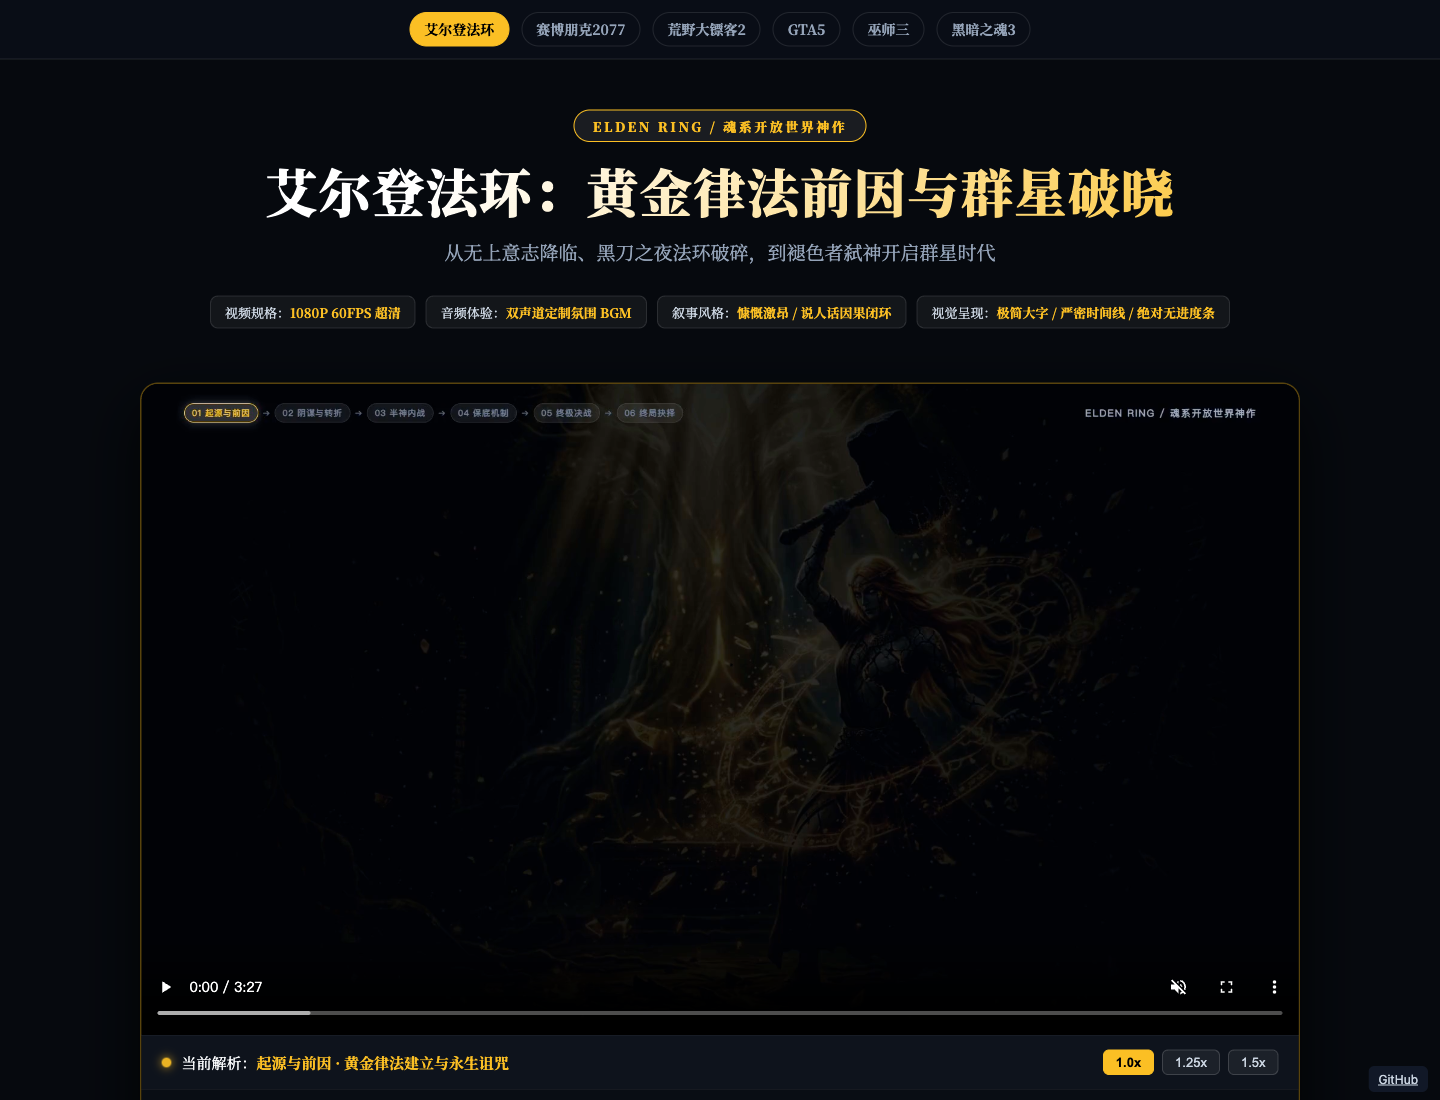
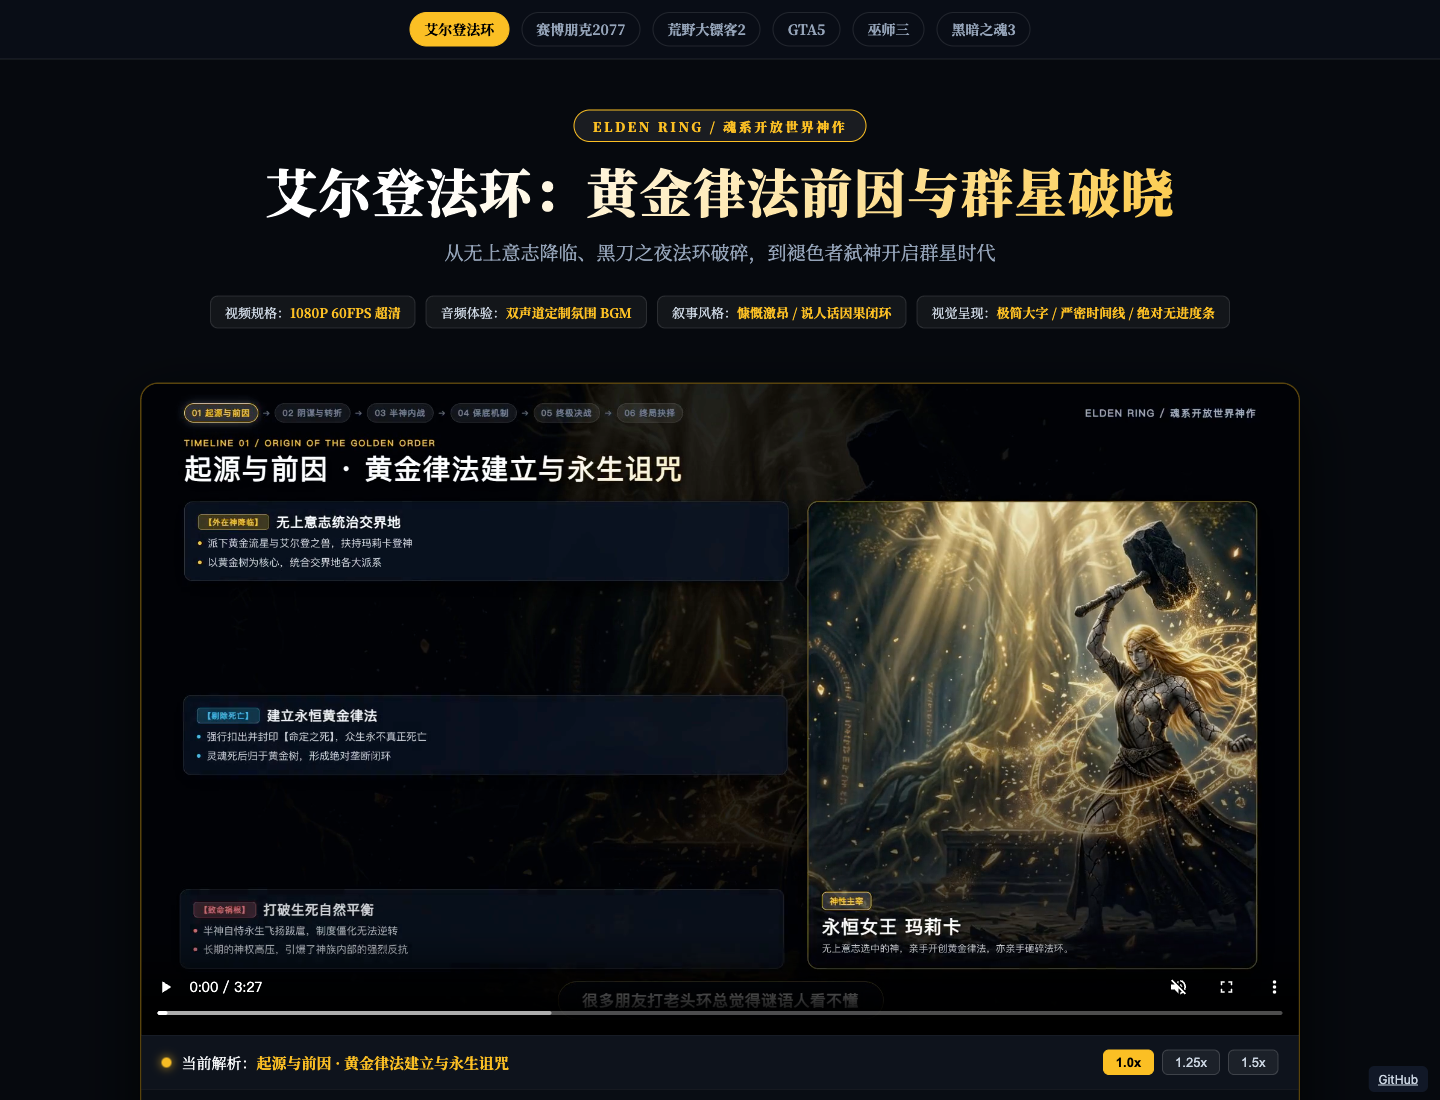
fix: support video byte ranges and canonical chapter links

diff --git a/index.html b/index.html
@@ -412,7 +412,7 @@
 <body>
   <!-- Global Series Bar -->
   <div class="series-nav-bar">
-    <a href="https://holynova.github.io/elden-ring-lore/" class="series-link active">艾尔登法环</a><a href="https://holynova.github.io/cyberpunk-2077-lore/" class="series-link">赛博朋克2077</a><a href="https://holynova.github.io/rdr2-lore/" class="series-link">荒野大镖客2</a><a href="https://holynova.github.io/gta5-lore/" class="series-link">GTA5</a><a href="https://holynova.github.io/witcher-3-lore/" class="series-link">巫师三</a><a href="https://holynova.github.io/dark-souls-3-lore/" class="series-link">黑暗之魂3</a>
+    <a href="https://elden-ring-lore.xiaosang.cc/" class="series-link active">艾尔登法环</a><a href="https://cyberpunk-2077-lore.xiaosang.cc/" class="series-link">赛博朋克2077</a><a href="https://rdr2-lore.xiaosang.cc/" class="series-link">荒野大镖客2</a><a href="https://gta5-lore.xiaosang.cc/" class="series-link">GTA5</a><a href="https://witcher-3-lore.xiaosang.cc/" class="series-link">巫师三</a><a href="https://dark-souls-3-lore.xiaosang.cc/" class="series-link">黑暗之魂3</a>
   </div>
 
   <!-- Hero Header -->

diff --git a/README.md b/README.md
@@ -45,3 +45,5 @@ npx --yes wrangler@4.128.0 deploy --config wrangler.jsonc
 ```
 
 从 `main` 同一提交在本地手动发布到Cloudflare Workers。正式地址：[https://elden-ring-lore.xiaosang.cc/](https://elden-ring-lore.xiaosang.cc/)。 `.assetsignore` 限定公开播放器/站点资源，排除合成工程、开发文件与未供页面使用的大体积音频/字体。
+
+视频通过 `worker/media.mjs` 提供HTTP字节范围读取，支持章节跳转；运行 `npm run test:media` 检查范围与校验器处理。
